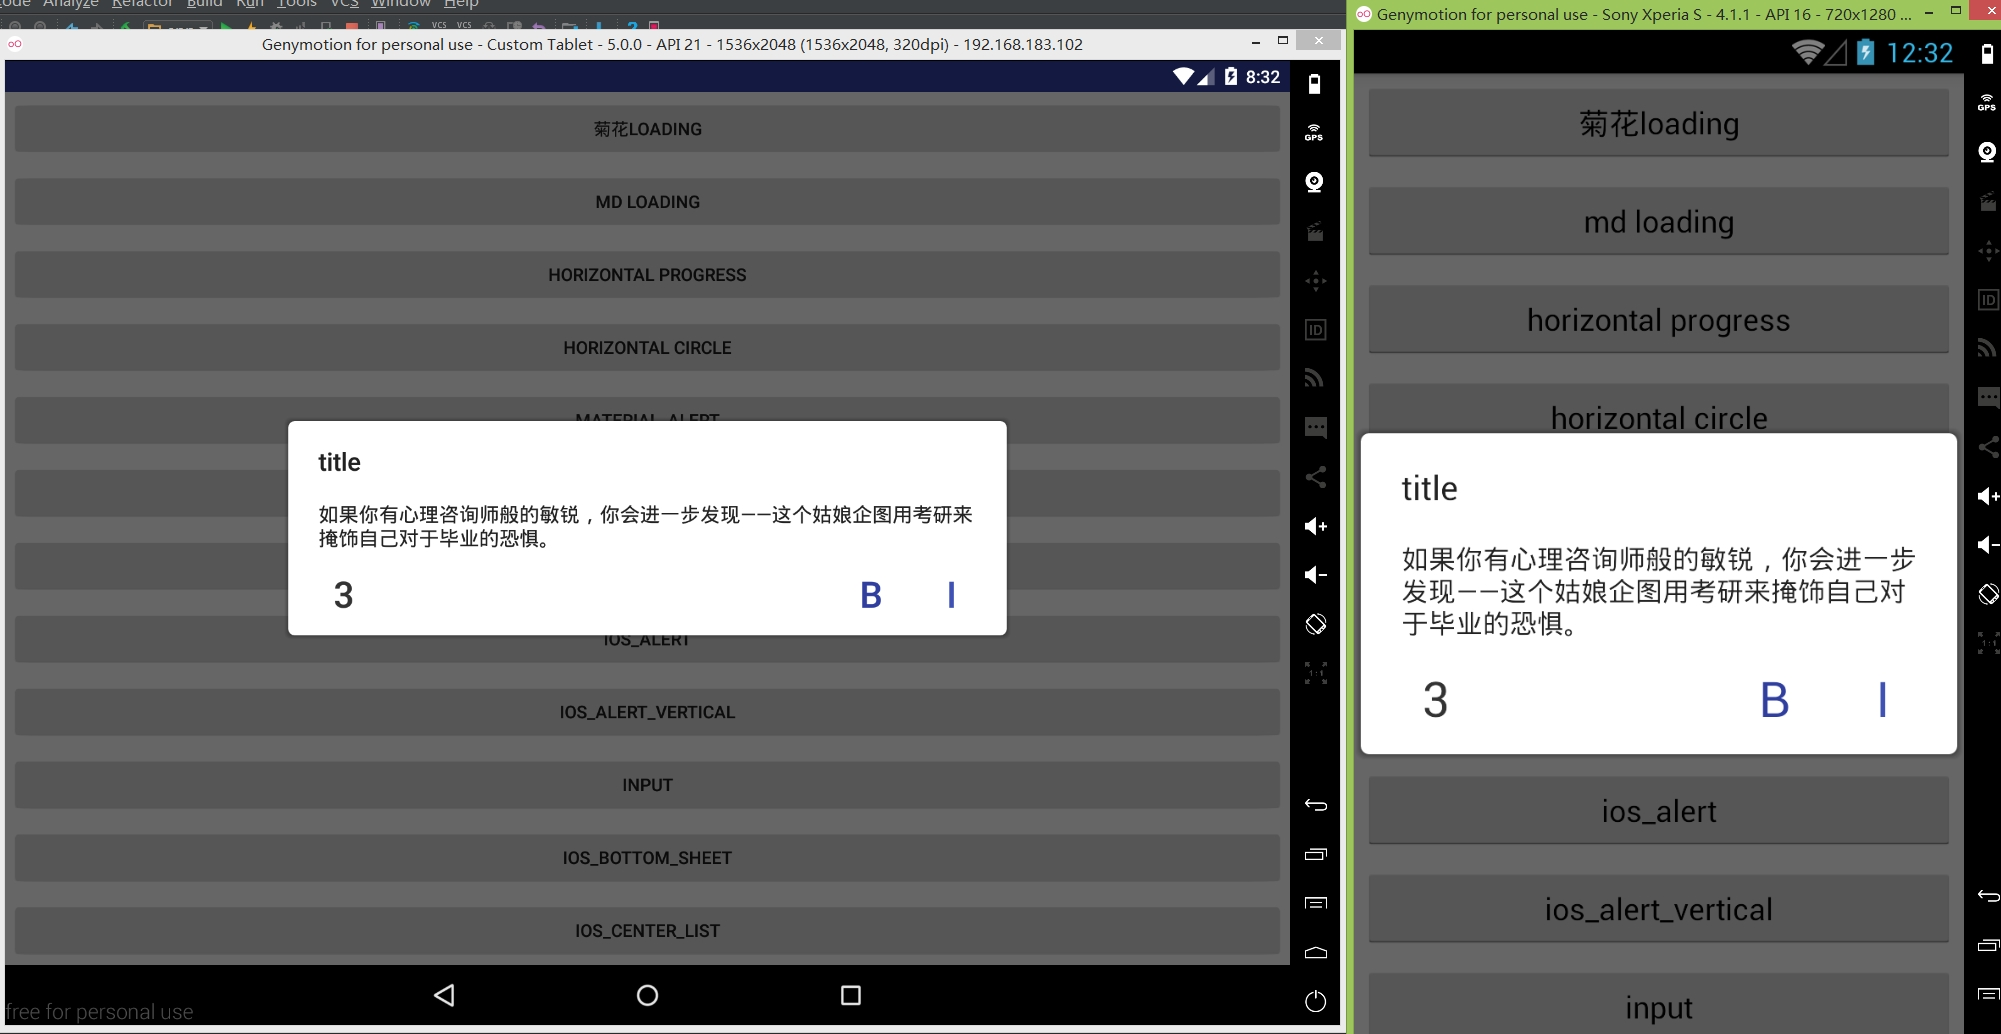
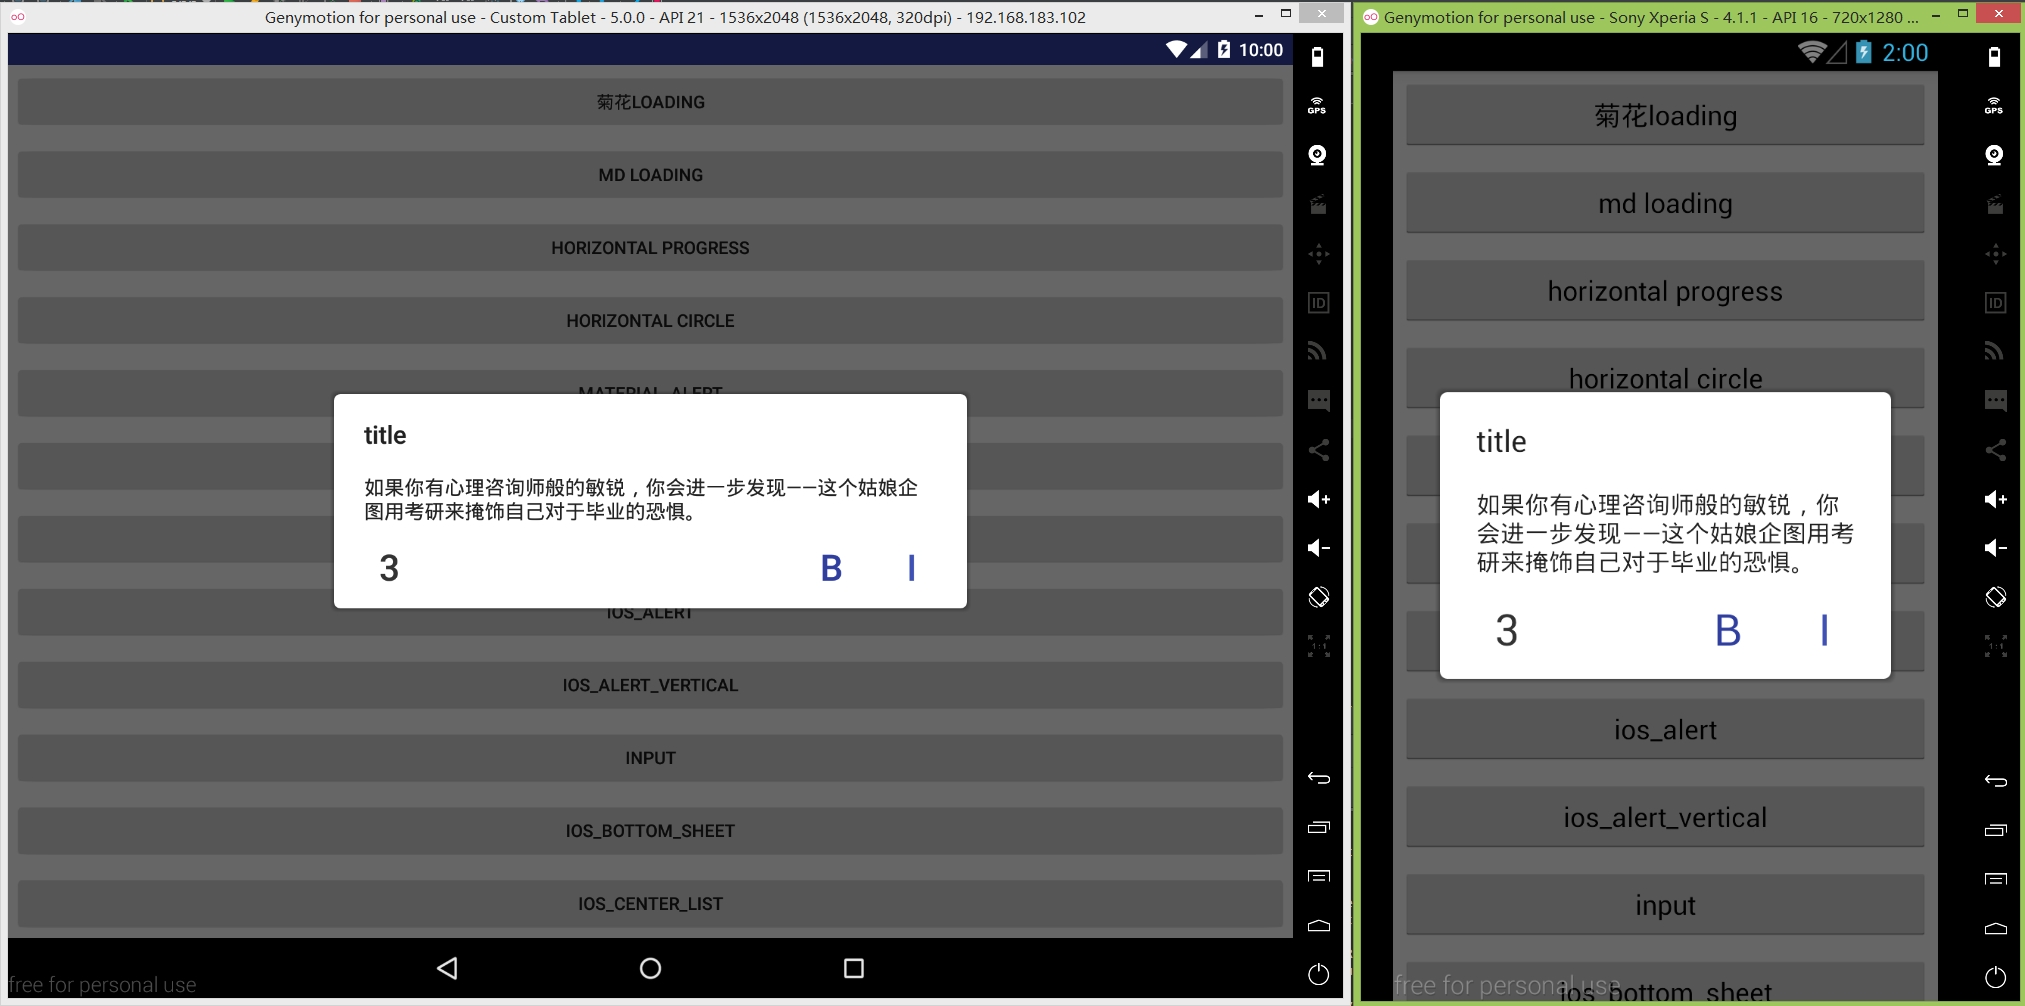
调整md的左右边距

diff --git a/lib/src/main/java/com/hss01248/dialog/Tool.java b/lib/src/main/java/com/hss01248/dialog/Tool.java
@@ -4,6 +4,7 @@ import android.app.Activity;
 import android.app.Dialog;
 import android.content.Context;
 import android.content.DialogInterface;
+import android.content.res.ColorStateList;
 import android.graphics.Color;
 import android.graphics.drawable.ColorDrawable;
 import android.os.Build;
@@ -36,6 +37,7 @@ public class Tool {
                     dialog.show();
                     if (bean.alertDialog!= null){
                         setMdBtnStytle(bean);
+                        adjustWH(bean.context,bean.alertDialog,bean.viewHeight,bean);
                         setListItemsStyle(bean);
                     }
                 }catch (Exception e){
@@ -180,10 +182,10 @@ public class Tool {
 
     public static void adjustWH(ConfigBean bean) {
         if (bean.alertDialog!= null){
-            setMdBtnStytle(bean);
-            setListItemsStyle(bean);
+            //setMdBtnStytle(bean);
+            //setListItemsStyle(bean);
            // adjustWH(bean.context,bean.dialog,bean.viewHeight,bean);
-            adjustWH(bean.context,bean.alertDialog,bean.viewHeight,bean);
+
         }else {
             adjustWH(bean.context,bean.dialog,bean.viewHeight,bean);
         }
@@ -324,7 +326,7 @@ public class Tool {
         int width = window.getWindowManager().getDefaultDisplay().getWidth();
         int height = window.getWindowManager().getDefaultDisplay().getHeight();
 
-        float ratio = 0.8f;
+        float ratio = 0.85f;
         if(bean.type ==DefaultConfig.TYPE_IOS_BOTTOM){
             ratio = 0.95f;
         }else if(bean.type ==DefaultConfig.TYPE_IOS_CENTER_LIST){
@@ -334,14 +336,14 @@ public class Tool {
             ratio = 0.5f;
         }
 
-        //wl.width = (int) (width * ratio);
+        wl.width = (int) (width * ratio);
 
 
-        if (isCustomType(bean)){
+        /*if (isCustomType(bean)){
             wl.width = (int) (width * ratio);  // todo keycode to keep gap
         }else {
             wl.width = ViewGroup.LayoutParams.WRAP_CONTENT;
-        }
+        }*/
 
         wl.height = ViewGroup.LayoutParams.WRAP_CONTENT;  //TODO  一般情况下为wrapcontent,最大值为height*0.9
 

diff --git a/lib/src/main/java/com/hss01248/dialog/interfaces/MyDialogListener.java b/lib/src/main/java/com/hss01248/dialog/interfaces/MyDialogListener.java
@@ -4,17 +4,15 @@ package com.hss01248.dialog.interfaces;
  * Created by Administrator on 2016/5/4 0004.
  */
 public abstract class MyDialogListener {
-    /**
-     *
-     */
-    public abstract void onFirst();
-    public abstract void onSecond();
-    public void onThird(){}
+
+    public abstract void onFirst();//md-确定,ios-第一个
+    public abstract void onSecond();//md-取消,ios-第二个
+    public void onThird(){}//md-netural,ios-第三个
 
     public void onCancle(){}
 
     /**
-     * 提供给NormalInput的回调
+     * 提供给Input的回调
      * @param input1
      * @param input2
      */

diff --git a/lib/src/main/java/com/hss01248/dialog/interfaces/MyItemDialogListener.java b/lib/src/main/java/com/hss01248/dialog/interfaces/MyItemDialogListener.java
@@ -7,7 +7,7 @@ public abstract class MyItemDialogListener {
 
 
     /**
-     * IosSingleChoose,BottomItemDialog,MdSingleChoose的点击条目回调
+     * IosSingleChoose,BottomItemDialog的点击条目回调
      * @param text
      * @param position
      */

diff --git a/README.md b/README.md
@@ -246,7 +246,7 @@ gridview拉出来时:
 
 ![md_bottom_grid](imgs/md_bottom_grid.jpg)
 
-> 当设置不要阴影,或者有的机型上阴影(dimlayer)不生效时,阴影效果如下:
+> 当设置不要半透明遮罩-setTransparentBehind(true),或者有的机型上半透明层(dimlayer)不生效时,四周阴影效果如下:
 
 ![nodim_1](imgs/nodim_1.jpg)
 
@@ -362,6 +362,63 @@ StyledDialog.init(this);
                         .setBtnText("i","b","3")
                         .show();
 ```
+
+# 相关回调
+
+## MyDialogListener
+
+```
+	public abstract void onFirst();//md-确定,ios-第一个
+    public abstract void onSecond();//md-取消,ios-第二个
+    public void onThird(){}//md-netural,ios-第三个
+
+    public void onCancle(){}
+
+    /**
+     * 提供给Input的回调
+     * @param input1
+     * @param input2
+     */
+    public void onGetInput(CharSequence input1,CharSequence input2){
+
+    }
+
+    /**
+     * 提供给MdSingleChoose的回调
+     * @param chosen
+     * @param chosenTxt
+     */
+    public void onGetChoose(int chosen,CharSequence chosenTxt){
+
+    }
+
+    /**
+     * 提供给MdMultiChoose的回调
+     * @param states
+     */
+    public void onGetChoose(boolean[] states){
+
+    }
+```
+
+## MyItemDialogListener
+
+```
+ /**
+     * IosSingleChoose,BottomItemDialog的点击条目回调
+     * @param text
+     * @param position
+     */
+   public abstract void onItemClick(CharSequence text, int position);
+
+
+    /**
+     * BottomItemDialog的底部按钮(经常是取消)的点击回调
+     */
+   public void onBottomBtnClick(){}
+```
+
+
 
 
 
